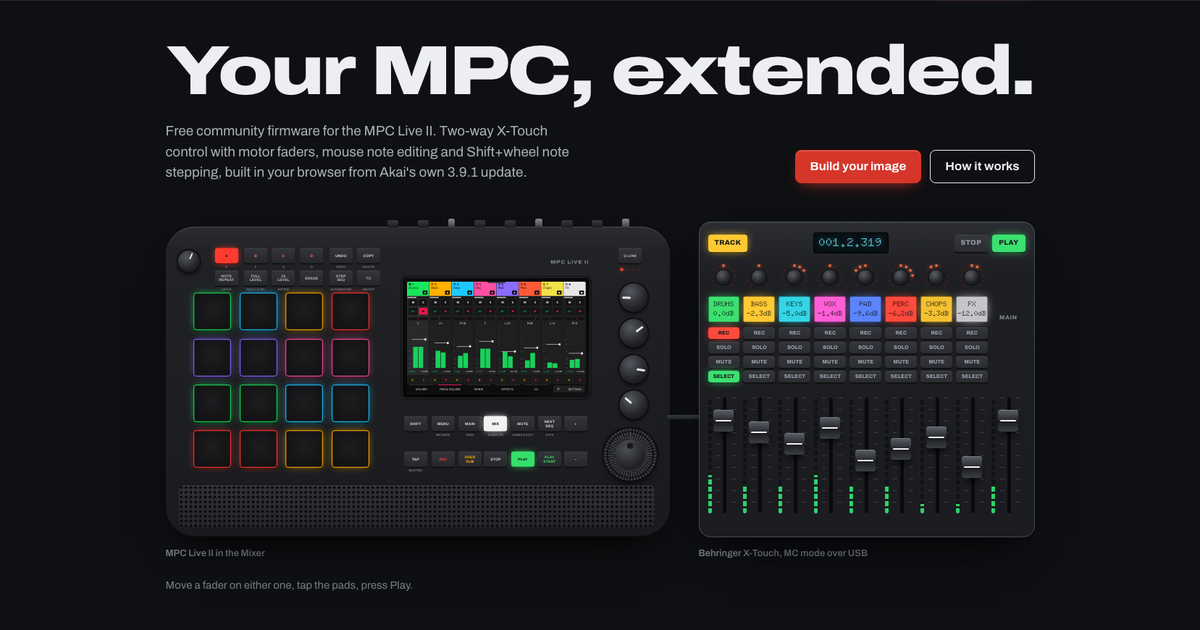
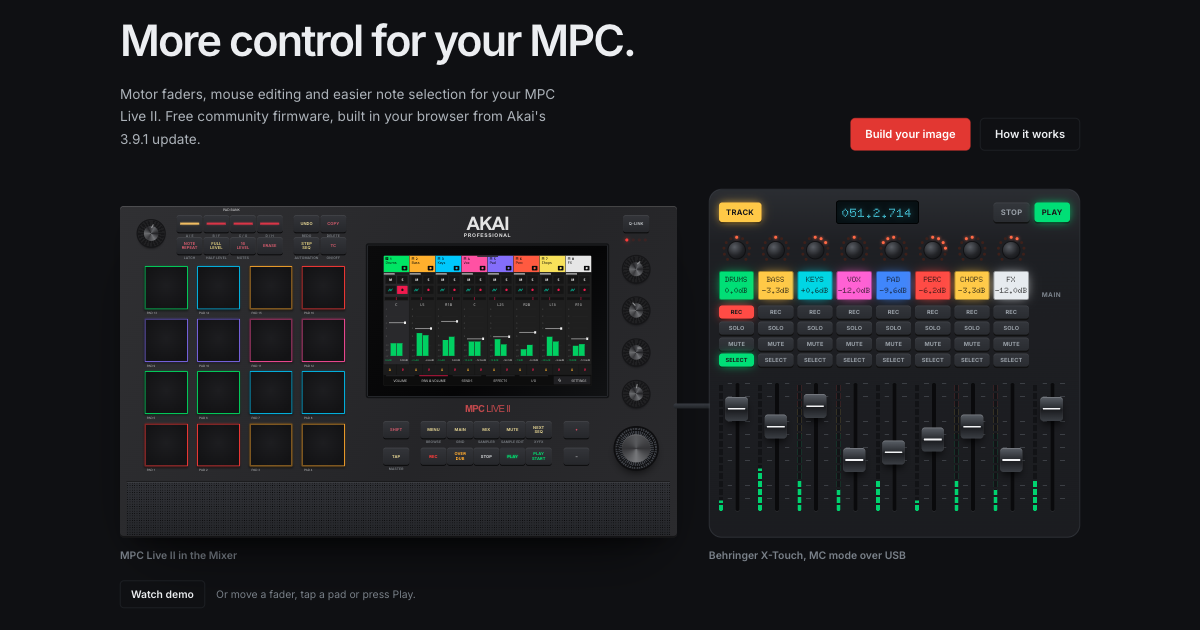
Publish refined landing page typography and MPC artwork

Changed region(s): [[0.0925, 0.0302, 0.925, 0.9651], [0.5858, 0.8746, 0.7708, 0.9048]]

diff --git a/builder/web/index.html b/builder/web/index.html
@@ -17,23 +17,23 @@
   <meta name="twitter:card" content="summary_large_image">
   <link rel="preconnect" href="https://fonts.googleapis.com">
   <link rel="preconnect" href="https://fonts.gstatic.com" crossorigin>
-  <link href="https://fonts.googleapis.com/css2?family=Archivo:wdth,wght@62..125,400..900&family=Doto:wght@700..900&family=Titillium+Web:wght@300;400;600;700&display=swap" rel="stylesheet">
+  <link href="https://fonts.googleapis.com/css2?family=Inter:wght@400;500;600;700&family=Doto:wght@700..900&family=Titillium+Web:wght@300;400;600;700&display=swap" rel="stylesheet">
   <script>try{const t=localStorage.getItem('theme');if(t==='dark'||t==='light')document.documentElement.dataset.theme=t;}catch(e){}</script>
   <style>
     :root {
       color-scheme: light;
-      --page: #e8eaed; --page-2: #dfe2e6; --ink: #15171a; --ink-2: #454a52; --ink-3: #5f666e; --line: #cbd0d6;
+      --page: #f7f7f5; --page-2: #edeeeb; --ink: #15171a; --ink-2: #454a52; --ink-3: #5f666e; --line: #cbd0d6;
       --red: #d6362a; --red-hover: #bb291e; --red-ink: #ffffff;
       /* White on this red passes 4.5:1 in both themes. */
       --cta: #d6362a; --cta-hover: #bb291e;
-      --header: rgba(232,234,237,.82);
+      --header: rgba(247,247,245,.94);
       /* Hardware and MPC screens look the same in both themes. */
       --dev-edge: #3b3e45;
       --led-red: #ff4a3d; --led-yel: #ffc933; --led-grn: #3be070; --led-cyan: #33d6e6; --led-blue: #5b85ff; --led-mag: #ff5fd6;
       --mpc-red: #e3174b; --mpc-bg: #1b1b1b; --mpc-panel: #1f1f1f; --mpc-ink: #f2f2f2;
-      --dev-shadow: 0 1px 0 rgba(255,255,255,.07) inset, 0 40px 70px -40px rgba(12,14,18,.6), 0 14px 28px -16px rgba(12,14,18,.4);
-      --sans: "Archivo", ui-sans-serif, system-ui, -apple-system, "Segoe UI", Roboto, Helvetica, Arial, sans-serif;
-      --mpc: "Titillium Web", "Archivo", ui-sans-serif, system-ui, sans-serif;
+      --dev-shadow: 0 10px 20px -14px rgba(12,14,18,.65);
+      --sans: "Inter", ui-sans-serif, system-ui, -apple-system, "Segoe UI", Roboto, Helvetica, Arial, sans-serif;
+      --mpc: "Titillium Web", "Inter", ui-sans-serif, system-ui, sans-serif;
       --lcd: "Doto", ui-monospace, "SF Mono", Menlo, Consolas, monospace;
     }
     @media (prefers-color-scheme: dark) { :root:not([data-theme="light"]) {
@@ -66,7 +66,7 @@
     /* Header */
     .top { position: sticky; top: 0; z-index: 20; background: var(--header); backdrop-filter: saturate(150%) blur(12px); -webkit-backdrop-filter: saturate(150%) blur(12px); border-bottom: 1px solid var(--line); }
     .top .wrap { display: flex; align-items: center; justify-content: space-between; gap: 16px; height: 64px; }
-    .brand { display: flex; align-items: center; gap: 10px; text-decoration: none; font-weight: 700; font-stretch: 108%; letter-spacing: -.01em; white-space: nowrap; }
+    .brand { display: flex; align-items: center; gap: 10px; text-decoration: none; font-weight: 600; font-stretch: normal; letter-spacing: -.01em; white-space: nowrap; }
     .brand .mark { width: 26px; height: 26px; border-radius: 7px; background: var(--ink); display: grid; place-items: center; }
     .brand .mark i { display: block; width: 10px; height: 10px; border-radius: 2px; background: var(--red); }
     .brand .tag { font-size: 12px; font-weight: 600; color: var(--ink-3); border: 1px solid var(--line); border-radius: 999px; padding: 1px 8px; font-stretch: 100%; }
@@ -90,18 +90,18 @@
     .fring { position: absolute; z-index: 30; display: none; pointer-events: none; border: 2px solid #ff5a4f; border-radius: 4px; box-shadow: 0 0 0 1px #000, 0 0 12px rgba(255,90,79,.6); }
     .vui :focus-visible { outline: none; }
     .nojs { margin: 18px 0 0; font-size: 15px; font-weight: 600; color: var(--ink-2); }
-    .btn { appearance: none; font: inherit; font-size: 16px; font-weight: 700; font-stretch: 105%; line-height: 1.1; border: 1.5px solid var(--ink); border-radius: 8px; padding: 13px 20px; background: transparent; color: var(--ink); cursor: pointer; text-decoration: none; display: inline-flex; align-items: center; gap: 10px; transition: background .15s, border-color .15s, color .15s, transform .1s; white-space: nowrap; }
+    .btn { appearance: none; font: inherit; font-size: 14px; font-weight: 600; font-stretch: normal; line-height: 1.1; border: 1px solid var(--line); border-radius: 6px; padding: 12px 18px; background: transparent; color: var(--ink); cursor: pointer; text-decoration: none; display: inline-flex; align-items: center; gap: 10px; transition: background .15s, border-color .15s, color .15s, transform .1s; white-space: nowrap; }
     .btn:hover { background: var(--ink); color: var(--page); }
     .btn:active { transform: translateY(1px); }
-    .btn.primary { background: var(--cta); border-color: var(--cta); color: var(--red-ink); box-shadow: 0 1px 0 rgba(255,255,255,.25) inset, 0 8px 20px -10px var(--cta); }
+    .btn.primary { background: var(--cta); border-color: var(--cta); color: var(--red-ink); box-shadow: none; }
     .btn.primary:hover { background: var(--cta-hover); border-color: var(--cta-hover); color: var(--red-ink); }
     .top .btn { font-size: 14px; padding: 9px 14px; }
 
     /* Hero */
-    .hero { padding: 52px 0 40px; }
-    .hero h1 { font-size: clamp(44px, 7vw, 96px); font-weight: 850; font-stretch: 125%; letter-spacing: -.035em; line-height: .94; margin: 0; }
+    .hero { padding: 56px 0 32px; }
+    .hero h1 { font-size: clamp(34px, 4.2vw, 54px); font-weight: 600; font-stretch: normal; letter-spacing: -.045em; line-height: 1.1; margin: 0; }
     .hero-row { display: grid; grid-template-columns: minmax(0, 1fr) auto; gap: 24px 48px; align-items: end; margin-top: 24px; }
-    .hero .lead { margin: 0; font-size: 19px; line-height: 1.5; color: var(--ink-2); max-width: 54ch; }
+    .hero .lead { margin: 0; font-size: 17px; line-height: 1.65; color: var(--ink-2); max-width: 54ch; }
     .ctas { display: flex; flex-wrap: wrap; gap: 12px; }
     @media (max-width: 860px) { .hero-row { grid-template-columns: 1fr; } }
     @media (max-width: 640px) { .hero { padding-top: 40px; } .hero .lead { font-size: 17px; } }
@@ -128,14 +128,14 @@
     .ghost.parked { display: none; }
 
     /* MPC Live II, laid out from the top-panel diagram in Akai's user guide */
-    .l2 { position: relative; aspect-ratio: 1.62; container-type: inline-size; border-radius: 2.4cqw; margin-top: 12px; background: linear-gradient(180deg, #2b2c30 0, #212225 8%, #1d1e21 60%, #1a1b1e); box-shadow: 0 1px 0 rgba(255,255,255,.1) inset, 0 -2px 0 rgba(0,0,0,.5) inset, var(--dev-shadow); user-select: none; -webkit-user-select: none; }
+    .l2 { position: relative; aspect-ratio: 1.68; container-type: inline-size; border-radius: .3cqw; margin-top: 12px; background: linear-gradient(125deg, #303033, #252528 60%, #2b2b2e); box-shadow: 0 1px 0 rgba(255,255,255,.1) inset, 0 -2px 0 rgba(0,0,0,.5) inset, var(--dev-shadow); user-select: none; -webkit-user-select: none; }
     .l2-jacks { position: absolute; left: 44%; right: 8%; top: -1.3cqw; height: 1.5cqw; display: flex; justify-content: space-between; align-items: flex-end; pointer-events: none; }
     .l2-jacks i { width: 2.2cqw; height: 1.4cqw; border-radius: .4cqw .4cqw 0 0; background: linear-gradient(#3a3b40, #1b1c1f); }
     .l2-jacks i:nth-child(3n) { width: 1.4cqw; height: 1.8cqw; background: linear-gradient(#8a8c90, #3a3b40); }
     .l2 .c { position: absolute; transform: translate(-50%, -50%); }
     .hb { appearance: none; border: 0; padding: 0; width: 4.6cqw; height: 3cqw; border-radius: .45cqw; background: linear-gradient(#34353a, #26272b); box-shadow: 0 .22cqw 0 #0b0b0c, 0 1px 0 rgba(255,255,255,.08) inset; color: #d6d8db; font: 700 .72cqw/1.05 var(--sans); letter-spacing: .02em; display: grid; place-items: center; text-align: center; cursor: pointer; transition: background .1s, color .1s, box-shadow .1s; }
     .hb small { position: absolute; left: 50%; top: calc(100% + .45cqw); transform: translateX(-50%); font-size: .6cqw; font-weight: 600; color: #7d8187; white-space: nowrap; letter-spacing: .03em; }
-    .hb.lit { color: #111; background: var(--lc); box-shadow: 0 0 1.4cqw -.2cqw var(--lc), 0 .22cqw 0 #0b0b0c; }
+    .hb.lit { color: var(--lc); background: linear-gradient(#34353a, #26272b); box-shadow: 0 .22cqw 0 #0b0b0c; text-shadow: 0 0 .35cqw var(--lc); }
     .hb:active { box-shadow: 0 .08cqw 0 #0b0b0c; transform: translate(-50%, calc(-50% + .14cqw)); }
     .hb.dim { color: #b8bbbf; }
     .hb.tint { color: var(--lc); }
@@ -144,15 +144,15 @@
     .dial { border-radius: 50%; background: radial-gradient(circle, transparent 60%, #0c0c0e 61%, #0c0c0e 63%, transparent 64%), repeating-conic-gradient(from var(--r, 0deg), #3b3d43 0 3.5deg, #1b1c1f 3.5deg 7deg); box-shadow: 0 0 0 .35cqw #0e0e10, 0 1cqw 1.8cqw -.6cqw rgba(0,0,0,.9); cursor: grab; touch-action: none; }
     .dial::before { content: ""; position: absolute; inset: 22%; border-radius: 50%; background: radial-gradient(circle at 38% 30%, #4d5057, #1f2023 70%); box-shadow: 0 1px 0 rgba(255,255,255,.12) inset; }
     .dial::after { content: ""; position: absolute; left: 50%; top: 27%; width: 12%; height: 12%; margin-left: -6%; border-radius: 50%; background: radial-gradient(circle at 40% 35%, #0e0e10, #2b2c30); transform-origin: 50% 191.7%; transform: rotate(var(--r, 0deg)); }
-    .l2-pads { position: absolute; left: 5.6%; top: 21.3%; width: 34.8%; aspect-ratio: 1; display: grid; grid-template-columns: repeat(4, 1fr); gap: 1.64cqw; }
-    .pad { appearance: none; border: 0; padding: 0; border-radius: .6cqw; background: radial-gradient(circle at 50% 45%, #1d1d20, #131315 75%); box-shadow: 0 0 0 .18cqw color-mix(in oklab, var(--pc) 85%, transparent) inset, 0 0 1.6cqw -.5cqw var(--pc), 0 .25cqw .4cqw rgba(0,0,0,.6); cursor: pointer; transition: background .25s, box-shadow .25s; }
+    .l2-pads { position: absolute; left: 4.4%; top: 18.2%; width: 36%; aspect-ratio: 1; display: grid; grid-template-columns: repeat(4, 1fr); gap: 1.64cqw; }
+    .pad { position: relative; appearance: none; border: 0; padding: 0; border-radius: .15cqw; background: radial-gradient(circle at 50% 45%, #1d1d20, #131315 75%); box-shadow: 0 0 0 .18cqw color-mix(in oklab, var(--pc) 85%, transparent) inset, 0 0 .45cqw -.2cqw var(--pc), 0 .25cqw .4cqw rgba(0,0,0,.6); cursor: pointer; transition: background .25s, box-shadow .25s; }
     .pad.hit { transition: none; background: radial-gradient(circle at 50% 45%, color-mix(in oklab, var(--pc) 75%, #fff), color-mix(in oklab, var(--pc) 45%, #111) 80%); box-shadow: 0 0 0 .18cqw var(--pc) inset, 0 0 3cqw 0 var(--pc); }
-    .l2-screen { position: absolute; left: 47.1%; top: 16.6%; width: 37%; padding: .75cqw; border-radius: .7cqw; background: linear-gradient(135deg, #0b0b0c, #050506 60%, #111214); box-shadow: 0 0 0 .12cqw #2e3035, 0 0 0 .4cqw #121315; }
-    .l2-model { position: absolute; left: 84%; top: 11.4%; transform: translate(-100%, -50%); font: 700 .95cqw/1 var(--sans); font-stretch: 118%; letter-spacing: .12em; color: #8d9197; }
-    .l2-leds { position: absolute; left: 92.2%; top: 13.8%; transform: translate(-50%, -50%); display: flex; gap: .55cqw; }
+    .l2-screen { position: absolute; left: 44.5%; top: 12%; width: 43%; padding: 1.8cqw 2.8cqw; border-radius: .15cqw; background: linear-gradient(135deg, #0b0b0c, #050506 60%, #111214); box-shadow: 0 0 0 .12cqw #2e3035, 0 0 0 .4cqw #121315; }
+    .l2-model { position: absolute; left: 66%; top: 61.3%; transform: translate(-50%, -50%); font: 500 1.75cqw/1 Arial, sans-serif; letter-spacing: -.08em; color: #b74849; }
+    .l2-leds { position: absolute; left: 92.7%; top: 10.3%; transform: translate(-50%, -50%); display: flex; gap: .55cqw; }
     .l2-leds i { width: .55cqw; height: .55cqw; border-radius: 50%; background: #3a2323; }
     .l2-leds i.on { background: #ff3b30; box-shadow: 0 0 .8cqw #ff3b30; }
-    .l2-grille { position: absolute; left: 2.7%; right: 2.9%; top: 83.2%; bottom: 3.4%; border-radius: 1cqw; background: radial-gradient(circle, #070708 0 38%, transparent 44%) 0 0 / .95cqw .95cqw, linear-gradient(#303136, #25262a); box-shadow: 0 1px 0 rgba(255,255,255,.08) inset, 0 -1px 0 rgba(0,0,0,.4); }
+    .l2-grille { position: absolute; left: 1.2%; right: 1.2%; top: 83.3%; bottom: .5%; border-radius: .12cqw; background: radial-gradient(circle, #070708 0 38%, transparent 44%) 0 0 / .42cqw .42cqw, linear-gradient(#303136, #25262a); box-shadow: 0 1px 0 rgba(255,255,255,.08) inset, 0 -1px 0 rgba(0,0,0,.4); }
 
     /* MPC 3 screens, drawn at native resolution and scaled to fit */
     .vwrap { position: relative; aspect-ratio: 16 / 10; overflow: hidden; background: var(--mpc-bg); border-radius: 2px; }
@@ -246,13 +246,12 @@
     }
 
     /* Sections */
-    .section { padding: 120px 0; }
+    .section { padding: 88px 0; }
     .section + .section { border-top: 1px solid var(--line); }
     @media (max-width: 760px) { .section { padding: 80px 0; } }
-    h2 { font-size: clamp(36px, 4.8vw, 62px); font-weight: 820; font-stretch: 118%; letter-spacing: -.03em; line-height: 1; margin: 0 0 22px; }
+    h2 { font-size: clamp(28px, 3vw, 40px); font-weight: 600; font-stretch: normal; letter-spacing: -.035em; line-height: 1.15; margin: 0 0 22px; }
     .copy p { margin: 0 0 16px; font-size: 18px; color: var(--ink-2); max-width: 46ch; }
     .copy p.small { font-size: 15px; color: var(--ink-3); }
-    .links-inline { display: flex; flex-wrap: wrap; gap: 12px; margin-top: 44px; }
     .feature { display: grid; grid-template-columns: minmax(0, 4fr) minmax(0, 8fr); gap: 64px; align-items: center; }
     .feature.flip { grid-template-columns: minmax(0, 8fr) minmax(0, 4fr); }
     .feature.flip .copy { order: 2; }
@@ -260,16 +259,16 @@
     .caption { margin: 14px 2px 0; font-size: 14px; color: var(--ink-3); }
     .status { margin: 12px 2px 0; font-size: 14px; font-weight: 600; color: var(--ink-2); min-height: 1.5em; }
 
-    .caps { display: grid; grid-template-columns: repeat(3, minmax(0, 1fr)); gap: 36px 48px; margin: 48px 0 0; }
-    .caps div { border-top: 2px solid var(--ink); padding-top: 14px; }
-    .caps dt { font-weight: 800; font-stretch: 112%; font-size: 19px; letter-spacing: -.01em; margin-bottom: 6px; }
-    .caps dd { margin: 0; color: var(--ink-2); font-size: 16px; }
-    @media (max-width: 900px) { .caps { grid-template-columns: repeat(2, minmax(0, 1fr)); } }
-    @media (max-width: 560px) { .caps { grid-template-columns: 1fr; gap: 28px; } }
-    .xt-intro { display: grid; grid-template-columns: minmax(0, 5fr) minmax(0, 7fr); gap: 16px 72px; align-items: end; }
-    .xt-intro p { margin: 0; font-size: 18px; color: var(--ink-2); max-width: 52ch; }
-    .xt-intro h2 { margin: 0; }
-    @media (max-width: 900px) { .xt-intro { grid-template-columns: 1fr; } }
+    .section.xtouch-summary { padding: 32px 0; }
+    .xt-summary { display: grid; grid-template-columns: auto minmax(0, 1fr) auto; gap: 36px; align-items: center; }
+    .xt-summary h2 { margin: 0; font-size: 22px; letter-spacing: -.025em; }
+    .xt-summary p { margin: 0; max-width: 65ch; font-size: 16px; color: var(--ink-2); }
+    .xt-links { display: flex; flex-direction: column; gap: 6px; font-size: 14px; font-weight: 500; }
+    .xt-links a { text-underline-offset: 4px; }
+    @media (max-width: 900px) {
+      .xt-summary { grid-template-columns: 1fr; gap: 12px; }
+      .xt-links { flex-direction: row; flex-wrap: wrap; gap: 20px; }
+    }
 
     /* A close-up of the MPC screen in its body */
     .bezel { position: relative; container-type: inline-size; padding: 2.2cqw; border-radius: 2.6cqw; background: linear-gradient(180deg, #2a2b2f, #1d1e21); box-shadow: 0 1px 0 rgba(255,255,255,.1) inset, var(--dev-shadow); user-select: none; -webkit-user-select: none; }
@@ -387,6 +386,25 @@
       .soon i, .ml-row.learning em, .halo.bump { animation: none; }
       .ghost { display: none; }
     }
+
+    /* Restrained site treatment and reference-aligned MPC panel. */
+    .l2-brand { position: absolute; left: 66%; top: 3%; transform: translateX(-50%); color: #e4e4e4; font: 900 3.35cqw/.8 Arial, sans-serif; letter-spacing: -.16cqw; text-align: center; }
+    .l2-brand small { display: block; margin-top: .42cqw; font: 600 .91cqw/1 Arial, sans-serif; letter-spacing: .11cqw; }
+    .l2-padbank { position: absolute; left: 20%; top: .8%; transform: translateX(-50%); font: 500 .6cqw/1 var(--sans); color: #c6c6c8; }
+    .l2 .bank::before { content: ''; width: 74%; height: .35cqw; border-radius: .05cqw; background: var(--lc); box-shadow: 0 0 .4cqw -.1cqw var(--lc); }
+    .pad::after { content: attr(data-pad); position: absolute; left: .4cqw; top: calc(100% + .35cqw); color: #b8b8ba; font: 400 .54cqw/1 Arial, sans-serif; }
+    .l2 .knob { background: repeating-conic-gradient(#202022 0 8deg, #171719 8deg 16deg); box-shadow: 0 0 0 .25cqw #161618, 0 .4cqw .5cqw -.15cqw #08080a; }
+    .l2 .knob::before { content: ''; position: absolute; inset: 22%; border-radius: 50%; background: conic-gradient(from 30deg, #606165, #242427, #727377, #39393c, #696a6d, #262629, #606165); }
+    .l2 .knob::after { top: 13%; height: 15%; width: 4%; margin-left: -2%; background: #999a9c; }
+    .l2 .dial::before { inset: 16%; background: conic-gradient(#5a5b5e, #343437, #77787b, #343437, #5a5b5e); }
+    .l2 .dial::after { display: none; }
+    .stage-hint { display: flex; gap: 14px; align-items: center; flex-wrap: wrap; font-size: 13px; }
+    .watch-demo { font: 600 13px/1 var(--sans); color: var(--ink); border: 1px solid var(--line); border-radius: 5px; padding: 10px 13px; background: transparent; cursor: pointer; }
+    .watch-demo:hover { background: var(--page-2); }
+    .watch-demo[aria-pressed='true'] { border-color: var(--ink-3); }
+    .xt-body { box-shadow: 0 10px 20px -14px rgba(12,14,18,.65); }
+    .wire i { box-shadow: none; width: 5px; height: 5px; margin-top: -2px; }
+    .copy p { font-size: 17px; }
   </style>
 </head>
 <body>
@@ -417,9 +435,9 @@
 <main>
   <section class="hero">
     <div class="wrap">
-      <h1>Your MPC, extended.</h1>
+      <h1>More control for your MPC.</h1>
       <div class="hero-row">
-        <p class="lead">Free community firmware for the MPC Live II. Two-way X-Touch control with motor faders, mouse note editing and Shift+wheel note stepping, built in your browser from Akai's own 3.9.1 update.</p>
+        <p class="lead">Motor faders, mouse editing and easier note selection for your MPC Live II. Free community firmware, built in your browser from Akai's 3.9.1 update.</p>
         <div class="ctas">
           <a class="btn primary" href="builder.html">Build your image</a>
           <a class="btn" href="#get">How it works</a>
@@ -430,10 +448,10 @@
       <div class="stage" id="stage" role="group" aria-label="Interactive demo: an MPC Live II and an X-Touch stay in sync">
         <figure>
           <div class="l2" id="live2">
-            <div class="l2-jacks" aria-hidden="true"><i></i><i></i><i></i><i></i><i></i><i></i><i></i><i></i><i></i></div>
+            <span class="l2-brand" aria-hidden="true">AKAI<small>PROFESSIONAL</small></span><span class="l2-padbank" aria-hidden="true">PAD BANK</span>
             <div class="l2-screen" aria-hidden="true"><div class="vwrap"><div class="vui mixer" id="mixer"><div class="pull"></div></div></div></div>
             <div class="l2-pads" id="pads" role="group" aria-label="Pads"></div>
-            <span class="l2-model" aria-hidden="true">MPC LIVE II</span>
+            <span class="l2-model" aria-hidden="true"><b>MPC</b> LIVE II</span>
             <span class="l2-leds" aria-hidden="true"><i class="on"></i><i></i><i></i><i></i></span>
             <div class="l2-grille" aria-hidden="true"></div>
           </div>
@@ -456,28 +474,18 @@
         </figure>
         <div class="ghost parked" id="ghost" aria-hidden="true"></div>
       </div>
-      <p class="stage-hint">Move a fader on either one, tap the pads, press Play.</p>
+      <p class="stage-hint"><button class="watch-demo" id="watchDemo" type="button" aria-pressed="false">Watch demo</button><span>Or move a fader, tap a pad or press Play.</span></p>
       <noscript><p class="nojs">The demos on this page need JavaScript.</p></noscript>
     </div>
   </section>
 
-  <section class="section" id="xtouch">
-    <div class="wrap">
-      <div class="xt-intro">
-        <h2>Two-way X-Touch.</h2>
-        <p>Set a full-size X-Touch to MC mode, plug it into the MPC and load a project. Names, colors, meters and fader positions come from the MPC, and whatever you move on either side moves on the other.</p>
-      </div>
-      <dl class="caps">
-        <div><dt>Mixer</dt><dd>Volume on motor faders, pan on encoders, plus mute, solo, select and record arm.</dd></div>
-        <div><dt>Sends and Drum Mix</dt><dd>The selected track's four sends on faders, or every pad of a Drum track, bank by bank.</dd></div>
-        <div><dt>Plug-ins</dt><dd>Open an insert, page through its parameters, and bypass it with Shift.</dd></div>
-        <div><dt>Q-Links</dt><dd>All sixteen, on the encoders or flipped onto the faders.</dd></div>
-        <div><dt>Transport</dt><dd>Play, stop, record, loop, click, undo and automation modes. Footswitches do Play and Record.</dd></div>
-        <div><dt>Jog wheel</dt><dd>Scrub by beats, or press Scrub and it becomes the MPC's data wheel.</dd></div>
-      </dl>
-      <div class="links-inline">
-        <a class="btn" href="guide.html">Read the X-Touch guide</a>
-        <a class="btn" href="xtouch-cheatsheet.md" download>Download the cheat sheet</a>
+  <section class="section xtouch-summary" id="xtouch">
+    <div class="wrap xt-summary">
+      <h2>Two-way X-Touch.</h2>
+      <p>Mix, control plug-ins and run transport from your X-Touch. Motor faders, names and meters stay in sync with the MPC.</p>
+      <div class="xt-links">
+        <a href="guide.html">Setup &amp; controls</a>
+        <a href="xtouch-cheatsheet.md" download>Cheat sheet</a>
       </div>
     </div>
   </section>
@@ -826,24 +834,25 @@ function hwButton(x, y, label, sub, opts = {}) {
   live2.append(b);
   return b;
 }
-const colX = [12.1, 17.9, 23.4, 29, 34.8, 40.3];
+const colX = [12.5, 17.3, 22.1, 26.9, 33.5, 38.3];
 [['A', 'E'], ['B', 'F'], ['C', 'G'], ['D', 'H'], ['UNDO', 'REDO'], ['COPY', 'DELETE']].forEach(([a, b], k) =>
-  hwButton(colX[k], 9.4, a, b, k === 0 ? { cls: 'lit', lc: '#ff3b30' } : k < 4 ? { cls: 'tint', lc: '#ff6b61' } : {}));
+  hwButton(colX[k], 5.4, k < 4 ? '' : a, k < 4 ? a + ' / ' + b : b, k < 4 ? { cls: 'bank', lc: k === 0 ? '#e8bc58' : '#ce3444' } : { cls: 'tint', lc: k === 4 ? '#ddd18c' : '#c25868' }));
 [['NOTE<br>REPEAT', 'LATCH'], ['FULL<br>LEVEL', 'HALF LEVEL'], ['16<br>LEVEL', 'NOTES'], ['ERASE', ''], ['STEP<br>SEQ', 'AUTOMATION'], ['TC', 'ON/OFF']].forEach(([a, b], k) =>
-  hwButton(colX[k], 16.6, a, b, { cls: 'dim' }));
-const rowX = [49.6, 55.1, 60.4, 65.5, 70.9, 76.2];
+  hwButton(colX[k], 12, a, b, { cls: 'tint', lc: k === 1 || k === 4 ? '#d6c976' : '#c25868' }));
+const rowX = [49.6, 56.3, 61.1, 65.8, 70.5, 75.2];
 [['SHIFT', ''], ['MENU', 'BROWSE'], ['MAIN', 'GRID'], ['MIX', 'SAMPLER'], ['MUTE', 'SAMPLE EDIT'], ['NEXT<br>SEQ', 'XYFX']].forEach(([a, b], k) =>
-  hwButton(rowX[k], 63.4, a, b, k === 3 ? { cls: 'lit', lc: '#f2f2f2' } : {}));
-hwButton(81.4, 63.4, '+', '');
-hwButton(49.6, 74.8, 'TAP', 'MASTER');
-hwButton(55.1, 74.8, 'REC', '', { cls: 'tint', lc: '#ff3b30' });
-hwButton(60.4, 74.8, 'OVER<br>DUB', '', { cls: 'tint', lc: '#ffb000' });
-const hwStop = hwButton(65.5, 74.8, 'STOP', '', { act: true, lc: '#f2f2f2' });
-const hwPlay = hwButton(70.9, 74.8, 'PLAY', '', { act: true, lc: '#35e06a' });
-hwButton(76.2, 74.8, 'PLAY<br>START', '', { cls: 'tint', lc: '#35e06a' });
-hwButton(81.4, 74.8, '&minus;', '');
-hwButton(92.2, 9.4, 'Q-LINK', '', { cls: 'dim' });
+  hwButton(rowX[k], 67.5, a, b, { cls: 'tint', lc: k === 0 ? '#c25868' : '#ddd18c' }));
+hwButton(82, 67.5, '+', '', { cls: 'tint', lc: '#d34b64' });
+hwButton(49.6, 75.5, 'TAP', 'MASTER', { cls: 'tint', lc: '#ddd18c' });
+hwButton(56.3, 75.5, 'REC', '', { cls: 'tint', lc: '#ff3b30' });
+hwButton(61.1, 75.5, 'OVER<br>DUB', '', { cls: 'tint', lc: '#ffb000' });
+const hwStop = hwButton(65.8, 75.5, 'STOP', '', { act: true, lc: '#f2f2f2' });
+const hwPlay = hwButton(70.5, 75.5, 'PLAY', '', { act: true, lc: '#35e06a' });
+const hwPlayStart = hwButton(75.2, 75.5, 'PLAY<br>START', '', { act: true, cls: 'tint', lc: '#35e06a' });
+hwButton(82, 75.5, '&minus;', '');
+hwButton(92.7, 5.4, 'Q-LINK', '', { cls: 'dim' });
 hwPlay.setAttribute('aria-label', 'MPC Play'); hwStop.setAttribute('aria-label', 'MPC Stop');
+hwPlayStart.setAttribute('aria-label', 'MPC Play Start');
 function knob(x, y, size, cls) {
   const k = el('div', cls + ' c', { 'aria-hidden': 'true' });
   Object.assign(k.style, { left: x + '%', top: y + '%', width: size + 'cqw', height: size + 'cqw' });
@@ -852,9 +861,9 @@ function knob(x, y, size, cls) {
   k.style.setProperty('--r', r + 'deg');
   rotary(k, d => { r = cls === 'knob' ? clamp(r + d, -140, 140) : r + d; k.style.setProperty('--r', r + 'deg'); }, stopAuto);
 }
-knob(4.6, 11.2, 4.4, 'knob');
-[22.9, 34.3, 45.9, 57.4].forEach(y => knob(92.9, y, 5.6, 'knob'));
-knob(92.2, 73.4, 10.4, 'dial');
+knob(5.6, 8.3, 4.7, 'knob');
+[19.1, 31.6, 44.2, 56.7].forEach(y => knob(92.7, y, 4.6, 'knob'));
+knob(92.7, 73.2, 7.4, 'dial');
 
 const PADC = ['#ff3b30', '#ff3b30', '#ffb000', '#ffb000', '#19e65c', '#19e65c', '#1ec8ff', '#1ec8ff', '#8a6cff', '#8a6cff', '#ff4fa3', '#ff4fa3', '#19e65c', '#1ec8ff', '#ffb000', '#ff3b30'];
 const padEls = [];
@@ -862,7 +871,7 @@ const padsBox = $('#pads');
 for (let r = 3; r >= 0; r--) for (let c = 0; c < 4; c++) {
   const n = r * 4 + c;
   const p = el('button', 'pad', { type: 'button', 'aria-label': 'Pad ' + (n + 1), tabindex: n === 12 ? '0' : '-1' });
-  p.style.setProperty('--pc', PADC[n]);
+  p.style.setProperty('--pc', PADC[n]); p.dataset.pad = 'PAD ' + (n + 1);
   padsBox.append(p);
   padEls[n] = p;
   p.addEventListener('pointerdown', e => { if (e.isTrusted) stopAuto(); hitPad(n); });
@@ -882,6 +891,7 @@ function hitPad(n) {
   pulse(true);
 }
 hwPlay.addEventListener('click', () => { stopAuto(); M.playing = true; touched(true); });
+hwPlayStart.addEventListener('click', () => { stopAuto(); M.beat = 0; M.playing = true; touched(true); });
 hwStop.addEventListener('click', () => { stopAuto(); if (M.playing) M.playing = false; else M.beat = 0; touched(true); });
 
 // X-Touch strips
@@ -1117,11 +1127,17 @@ function ghostPads(seq) {
   }, k * 250)));
 }
 let auto = !reduce, autoTimers = [];
+$('#watchDemo').textContent = auto ? 'Stop demo' : 'Watch demo';
+$('#watchDemo').setAttribute('aria-pressed', auto);
 function stopAuto() {
   if (!auto) return;
   auto = false;
+  $('#watchDemo').textContent = 'Watch demo';
+  $('#watchDemo').setAttribute('aria-pressed', 'false');
   autoTimers.forEach(clearTimeout);
   autoTimers = [];
+  override.fill(null);
+  $('#xtBody').classList.remove('boot');
   tweens.length = 0;
   dragX = -1;
   hideGhost();
@@ -1138,14 +1154,21 @@ function tour(round) {
 }
 function powerOn() {
   const body = $('#xtBody');
-  if (reduce) { body.classList.remove('boot'); return; }
+  if (reduce || !auto) { body.classList.remove('boot'); return; }
   for (let i = 0; i < 9; i++) {
-    setTimeout(() => { override[i] = 1; }, 150 + i * 55);
-    setTimeout(() => { override[i] = null; }, 700 + i * 55);
+    autoTimers.push(setTimeout(() => { override[i] = 1; }, 150 + i * 55));
+    autoTimers.push(setTimeout(() => { override[i] = null; }, 700 + i * 55));
   }
-  setTimeout(() => body.classList.remove('boot'), 300);
+  autoTimers.push(setTimeout(() => body.classList.remove('boot'), 300));
   autoTimers.push(setTimeout(() => tour(0), 1600));
 }
+$('#watchDemo').addEventListener('click', () => {
+  if (auto) { stopAuto(); M.playing = false; dirty = true; return; }
+  auto = true; M.playing = true; dirty = true;
+  $('#watchDemo').textContent = 'Stop demo';
+  $('#watchDemo').setAttribute('aria-pressed', 'true');
+  tour(0);
+});
 ['pointerdown', 'wheel', 'keydown'].forEach(t => stage.addEventListener(t, e => { if (e.isTrusted) stopAuto(); }, { passive: true }));
 addEventListener('resize', hideGhost);
 
